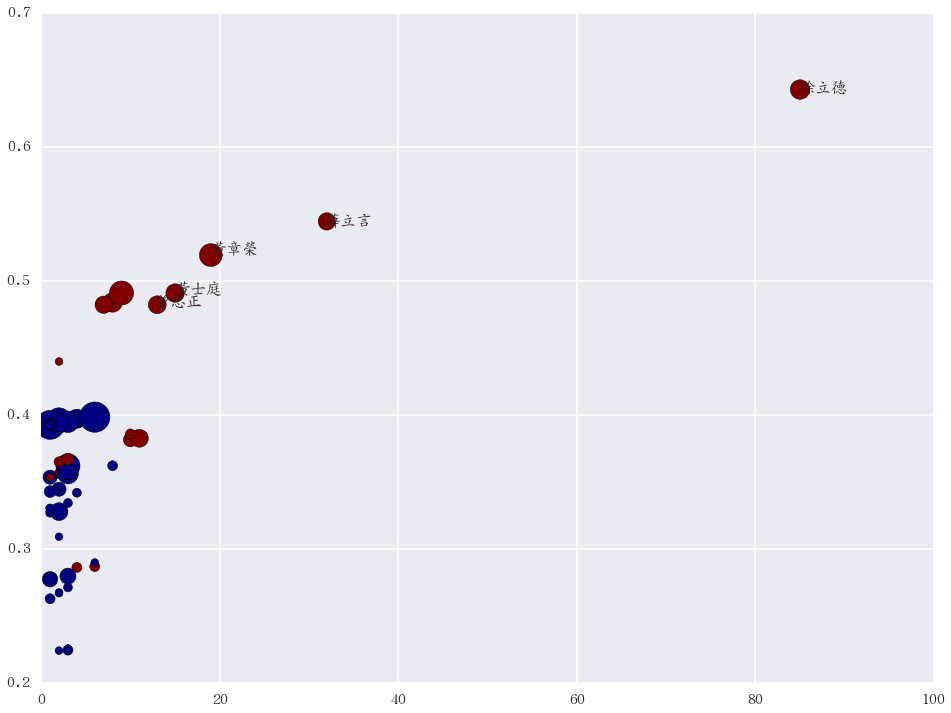
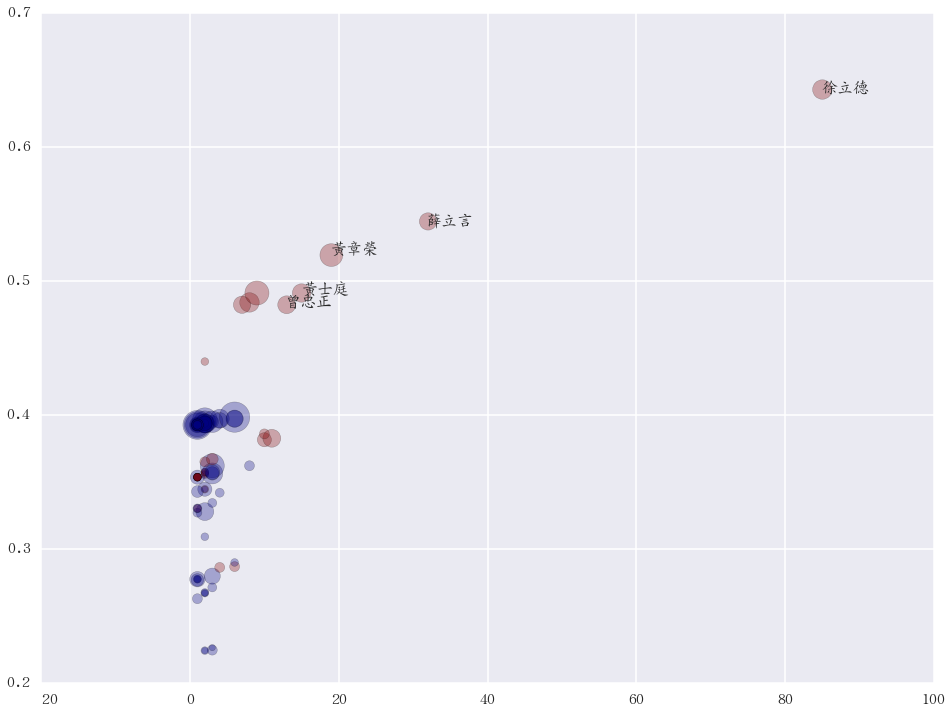
change data month

diff --git a/fixmd.py b/fixmd.py
@@ -103,6 +103,6 @@ def writemd(path, fi):
 
 if __name__ == '__main__':
     path = 'content'
-    fi = 'ronhwa.md'
+    fi = 'kmt.md'
     writemd(path, fi)
 

diff --git a/content/2014-08-09-kmt.md b/content/2014-08-09-kmt.md
@@ -1,5 +1,6 @@
 title: 黨營事業知多少
 date: 2014-08-09 01:35
+modified: 2014-08-11 16:30
 comments: true
 slug: kmtnew
 tags: 台灣公司關係圖
@@ -8,7 +9,7 @@ category: 台灣公司關係圖
 
 ## 黨營事業知多少？
 
-本文將就國民黨營事業的社會網路結構進行深入探討，資料來源為 [台灣公司關係圖](http://gcis.nat.g0v.tw/) 7 月份資料。
+本文將就國民黨營事業的社會網路結構進行深入探討，資料來源為 [台灣公司關係圖](http://gcis.nat.g0v.tw/) 6 月份資料。
 
 前篇文章提到台灣企業生態圈中的超巨大關係企業集團，其中黨營事業處於該集團核心位置，而黨營事業又主要以中央投資為核心向外延伸。關於國民黨黨產多寡，其實我們亦可從年
 報得知，不一定要如此費心挖掘。但本篇研究重心在於表現黨營事業的投資分佈概況，其核心人物主要以誰為主？有哪些財團企業與黨營事業往來密切？甚至藉由比較核心人物擔任董
@@ -27,8 +28,8 @@ category: 台灣公司關係圖
 ![png]({filename}/images/kmt_files/kmt_7_1.png)
 
 
-在本圖中，青色點代表具絕對控制權之企業，橙色點為關係企業，而紫色點為其他共同投資者。<br>
-在連結的圖中，綠色點代表具絕對控制權之企業，橘色點為關係企業，而藍色點為其他共同投資者，越粗的線代表席次比重越高。
+在本圖中，藍色點代表具絕對控制權之企業，暗紅色點為關係企業，而紫色點為其他共同投資者。<br>
+在連結的圖中，綠色點代表具絕對控制權之企業，橙色點為關係企業，而藍色點為其他共同投資者，越粗的線代表席次比重越高。
 
 整體而言，與中央投資有關的事業高達 119 家公司，投資標的橫跨金融、科技、建設與民生消費等行業，甚至包含了台灣證交所。
 
@@ -84,7 +85,7 @@ centrality)，越右上角表示重要性越高。各圓圈大小代表頭銜多
 就核心成員而言，這些人除了出任中央投資相關投資事業的董監事代表之外，是否也有擔任其他事業的董監事代表呢？在初步排除同名同姓的可能後，我們可試列表如下：
 
 
-<table><tr><td>公司名稱</td><td>出現次數</td><td>成員名單</td></tr><tr><td>欣裕台股份有限公司</td><td>9</td><td>施汎泉,施明豪,郭土木,黃士庭,葉裕祥,薛立言,曾忠正,林千惠,黃章榮</td></tr><tr><td>光華投資股份有限公司</td><td>6</td><td>鄭世芳,黃士庭,薛立言,曾忠正,林千惠,黃章榮</td></tr><tr><td>裕晟投資股份有限公司</td><td>4</td><td>黃章榮,鄭世芳,薛立言,曾忠正</td></tr><tr><td>龍天投資股份有限公司</td><td>3</td><td>莊松旺,胡鴻仁,黃雄</td></tr><tr><td>中國廣播股份有限公司</td><td>3</td><td>黃士庭,鄭世芳,曾忠正</td></tr><tr><td>廣播人股份有限公司</td><td>2</td><td>鄭世芳,曾忠正</td></tr><tr><td>亞太電信股份有限公司</td><td>2</td><td>薛立言,曾忠正</td></tr><tr><td>中華旅行社股份有限公司</td><td>1</td><td>黃雄</td></tr><tr><td>大通建築經理股份有限公司</td><td>1</td><td>呂理卿</td></tr><tr><td>中央文物供應社股份有限公司</td><td>1</td><td>陳國平</td></tr><tr><td>國際創業投資股份有限公司</td><td>1</td><td>鄭世芳</td></tr><tr><td>文炳印刷科技股份有限公司</td><td>1</td><td>楊忠耕</td></tr><tr><td>悅悅股份有限公司</td><td>1</td><td>黃士庭</td></tr><tr><td>勤生投資股份有限公司</td><td>1</td><td>徐立德</td></tr><tr><td>灃水營造工程股份有限公司</td><td>1</td><td>陳國平</td></tr><tr><td>國際第三創業投資股份有限公司</td><td>1</td><td>陳國平</td></tr><tr><td>世界生技創業投資股份有限公司</td><td>1</td><td>林千惠</td></tr><tr><td>皇冠實業股份有限公司</td><td>1</td><td>徐立德</td></tr><tr><td>彙亞工程設計股份有限公司</td><td>1</td><td>郭振邦</td></tr></table>
+<table><tr><td>公司名稱</td><td>出現次數</td><td>成員名單</td><td>絕對控制權</td><td>席次</td><td>控制權百分比</td></tr><tr><td>欣裕台股份有限公司</td><td>9</td><td>施汎泉,施明豪,郭土木,黃士庭,葉裕祥,薛立言,曾忠正,林千惠,黃章榮</td><td>True</td><td>6</td><td>100.0</td></tr><tr><td>光華投資股份有限公司</td><td>6</td><td>鄭世芳,黃士庭,薛立言,曾忠正,林千惠,黃章榮</td><td>True</td><td>5</td><td>100.0</td></tr><tr><td>裕晟投資股份有限公司</td><td>4</td><td>黃章榮,鄭世芳,薛立言,曾忠正</td><td>True</td><td>4</td><td>100.0</td></tr><tr><td>中國廣播股份有限公司</td><td>3</td><td>黃士庭,鄭世芳,曾忠正</td><td>False</td><td>3</td><td>27.27</td></tr><tr><td>廣播人股份有限公司</td><td>2</td><td>鄭世芳,曾忠正</td><td>False</td><td>0</td><td>0.0</td></tr><tr><td>亞太電信股份有限公司</td><td>2</td><td>薛立言,曾忠正</td><td>False</td><td>3</td><td>16.67</td></tr><tr><td>文炳印刷科技股份有限公司</td><td>1</td><td>楊忠耕</td><td>True</td><td>1</td><td>100.0</td></tr><tr><td>大通建築經理股份有限公司</td><td>1</td><td>呂理卿</td><td>True</td><td>1</td><td>100.0</td></tr><tr><td>中央文物供應社股份有限公司</td><td>1</td><td>陳國平</td><td>True</td><td>1</td><td>100.0</td></tr><tr><td>國際創業投資股份有限公司</td><td>1</td><td>鄭世芳</td><td>False</td><td>1</td><td>33.33</td></tr><tr><td>勤生投資股份有限公司</td><td>1</td><td>徐立德</td><td>True</td><td>2</td><td>50.0</td></tr><tr><td>悅悅股份有限公司</td><td>1</td><td>黃士庭</td><td>False</td><td>0</td><td>0.0</td></tr><tr><td>皇冠實業股份有限公司</td><td>1</td><td>徐立德</td><td>False</td><td>1</td><td>12.5</td></tr><tr><td>灃水營造工程股份有限公司</td><td>1</td><td>陳國平</td><td>True</td><td>1</td><td>100.0</td></tr><tr><td>國際第三創業投資股份有限公司</td><td>1</td><td>陳國平</td><td>True</td><td>1</td><td>50.0</td></tr><tr><td>世界生技創業投資股份有限公司</td><td>1</td><td>林千惠</td><td>False</td><td>1</td><td>25.0</td></tr><tr><td>龍天投資股份有限公司</td><td>1</td><td>胡鴻仁</td><td>True</td><td>2</td><td>50.0</td></tr></table>
 
 
 以上的公司名單依出現次數多寡排列，我們可以找出非屬中央投資的投資範圍，但是由同一群人經營之企業。自然這些企業亦享有與中央投資同等的資訊優勢，其出現次數越多表示與
@@ -104,14 +105,20 @@ centrality)，越右上角表示重要性越高。各圓圈大小代表頭銜多
 我們可以看到除了中央投資外，同一群人也另外持有欣裕台（完全持有）、光華投資（完全持有）、裕晟投資（完全持有）甚至是亞太電信（部份持有）。利用網絡分析圖可以幫助我
 們更容易觀察到這些公司彼此的轉投資關係。
 
+最後根據連接數與近距中間值，我們可以觀察比較中央投資集團相關企業的重要性，如下圖即顯示出除了中央投資居於重要地位之外，環宇投資與歐華創投等也佔據了相當重要的位置
+。
+
+
+![png]({filename}/images/kmt_files/kmt_23_0.png)
+
+
 ### 結語
 
 本文試圖探討黨營事業的結構，找出中央投資的關係企業與核心企業。利用核心企業的董監事名單，可以找出黨營事業的核心人物與友好企業夥伴。另外甚至可以依此找出不屬於中央
 投資的投資範圍內的企業名單。協助我們更清楚整體黨營事業成員。類似方法也可用於觀察以家族為核心的財團成員。黨營事業形成自有其歷史背景，但時至今日其規模仍與財團相當
 ，其與財團互為利益共同體這點，絕非一朝一夕便可消除。
 
-所以單方面地相信政府或政黨會為人民服務是不夠的，政府官員、政黨代表也是人，也會面臨利益糾葛、天人交戰的時候。我們需要更透明的政治與經濟環境，透過全民共同監督，以
-降低黑箱政治、政府與財團利益交換的可能性。
+因此我們需要持續監督黨營事業發展與影響，創造更透明的政治與經濟環境，透過全民共同監督以降低黑箱政治、政府與財團利益交換的可能性。
 
 
 ### 參考文獻

diff --git a/content/2014-08-09-ronhwa.md b/content/2014-08-09-ronhwa.md
@@ -1,12 +1,13 @@
 title: 集團研究--榮化
 date: 2014-08-09 01:55
+modified: 2014-08-11 16:30
 comments: true
 slug: ronhwa
 tags: 台灣公司關係圖
 category: 台灣公司關係圖
 
 
-本文將就李長榮化工的董監事社會網路結構進行探討，資料來源為 [台灣公司關係圖](http://gcis.nat.g0v.tw/) 7 月份資料。
+本文將就李長榮化工的董監事社會網路結構進行探討，資料來源為 [台灣公司關係圖](http://gcis.nat.g0v.tw/) 6 月份資料。
 
 首先想知道有哪些公司名稱與"李長榮"有關？
 
@@ -33,8 +34,8 @@ category: 台灣公司關係圖
 
 在本文中，若集團核心成員以個人或法人身份持有被投資公司五成以上的董監席次，則我們稱集團對該被投資公司具有絕對控制權。
 
-在本圖中，福聚與惠利實業等四間公司為榮化之法人股東，藍色點代表具絕對控制權之企業，橙色點為關係企業，而紫色點為其他共同投資者。<br>
-在連結的圖中，紅色點為榮化之法人股東，藍色點代表具絕對控制權之企業，綠色點為關係企業，而橘色點為其他共同投資者，越粗的線代表席次比重越高。
+在本圖中，福聚與惠利實業等四間公司為榮化之法人股東，藍色點代表具絕對控制權之企業，暗紅色點為關係企業，而紫色點為其他共同投資者。<br>
+在連結的圖中，紅色點為榮化之法人股東，藍色點代表具絕對控制權之企業，橙色點為關係企業，而綠色點為其他共同投資者，越粗的線代表席次比重越高。
 
 整體而言，與李長榮化工有關的事業有 13 家公司。<br>
 榮化除了董事長李謀偉以個人身份擔任董事長外，其餘董監事成員主要以福聚與惠利實業這兩間僑外資公司為主，而這兩間公司又分別為註冊在英屬維京群島的公司所持有。透過免稅
@@ -46,7 +47,7 @@ category: 台灣公司關係圖
 <table><tr><td>被投資對象</td><td>董監席次</td><td>持有席次</td><td>持有比重</td></tr><tr><td>惠利投資股份有限公司</td><td>4</td><td>4</td><td>100.0</td></tr><tr><td>環球橡膠股份有限公司</td><td>4</td><td>4</td><td>100.0</td></tr><tr><td>新能生物科技股份有限公司</td><td>8</td><td>4</td><td>50.0</td></tr><tr><td>李長榮科技股份有限公司</td><td>7</td><td>7</td><td>100.0</td></tr></table>
 
 
-其中新能生物科技雖有絕對控制權，但有部份董監事成員非屬榮化集團，這點須在分析核心成員名單時加以區別：
+其中新能生物科技雖有絕對控制權，但有部份董監事成員非屬榮化集團，這點須在分析核心成員名單時加以區別。
 
 ### 核心人物與投資夥伴
 
@@ -86,7 +87,7 @@ category: 台灣公司關係圖
 就本集團的核心董監事代表而言，這些人是否也有擔任其他事業的董監事代表呢？在初步排除同名同姓的可能後，我們可試以現有模型檢查：
 
 
-<table><tr><td>公司名稱</td><td>出現次數</td><td>成員名單</td></tr><tr><td>李長榮實業股份有限公司</td><td>6</td><td>李明恭,李陳蘭,楊賽芬,洪再興,王焜燦,李謀偉</td></tr><tr><td>李城企業股份有限公司</td><td>5</td><td>魏正誠,王焜燦,李謀偉,李陳蘭,楊賽芬</td></tr><tr><td>紘洋化學股份有限公司</td><td>4</td><td>王興益,盧俊雄,李陳蘭,李振芳</td></tr><tr><td>全利能源實業股份有限公司</td><td>4</td><td>魏正誠,李謀偉,李陳蘭,楊賽芬</td></tr><tr><td>全利台船務代理有限公司</td><td>2</td><td>李謀偉,李陳蘭</td></tr><tr><td>納亞股份有限公司</td><td>2</td><td>李謀偉,楊賽芬</td></tr><tr><td>惠利船務代理有限公司</td><td>1</td><td>李陳蘭</td></tr><tr><td>奎克生技光電股份有限公司</td><td>1</td><td>李謀偉</td></tr></table>
+<table><tr><td>公司名稱</td><td>出現次數</td><td>成員名單</td><td>絕對控制權</td><td>席次</td><td>控制權百分比</td></tr><tr><td>李長榮實業股份有限公司</td><td>6</td><td>李明恭,李陳蘭,楊賽芬,洪再興,王焜燦,李謀偉</td><td>True</td><td>4</td><td>100.0</td></tr><tr><td>李城企業股份有限公司</td><td>5</td><td>魏正誠,王焜燦,李謀偉,李陳蘭,楊賽芬</td><td>True</td><td>4</td><td>100.0</td></tr><tr><td>紘洋化學股份有限公司</td><td>4</td><td>王興益,盧俊雄,李陳蘭,李振芳</td><td>True</td><td>4</td><td>100.0</td></tr><tr><td>全利能源實業股份有限公司</td><td>4</td><td>魏正誠,李謀偉,李陳蘭,楊賽芬</td><td>True</td><td>4</td><td>100.0</td></tr><tr><td>全利台船務代理有限公司</td><td>2</td><td>李謀偉,李陳蘭</td><td>True</td><td>2</td><td>66.67</td></tr><tr><td>納亞股份有限公司</td><td>2</td><td>李謀偉,楊賽芬</td><td>True</td><td>2</td><td>50.0</td></tr><tr><td>惠利船務代理有限公司</td><td>1</td><td>李陳蘭</td><td>True</td><td>1</td><td>100.0</td></tr><tr><td>奎克生技光電股份有限公司</td><td>1</td><td>李謀偉</td><td>False</td><td>1</td><td>25.0</td></tr></table>
 
 
 就現有模型與資料推斷，核心成員仍持有李長榮實業等八家事業。關於其與榮化間的關係，合併後以社會網絡分析圖表示如下：
@@ -98,14 +99,21 @@ category: 台灣公司關係圖
 ![png]({filename}/images/ronhwa_files/ronhwa_23_1.png)
 
 
-在上圖中暗紅色為模型新發現之投資企業，其中有四間公司仍與榮化存在相關的投資關係。另外四間則無，但從董監事成員來看，他們仍然是同一群人所經營的事業。
+在上圖中暗紅色為模型新發現榮化具有控制權之企業，其餘新發現但無控制權之企業仍以橙色表示。其中有四間公司仍與榮化存在相關的投資關係。另外四間則無，但從董監事成員來
+看，他們仍然是同一群人經營的事業。若是從連接數與近距中間值來觀察榮化集團中各企業的重要性，仍然以榮化的重要性最高。
+
+下圖以各公司的董監事人數代表圓圈大小。
+
+
+![png]({filename}/images/ronhwa_files/ronhwa_25_0.png)
+
 
 ### 結語
 
-本文試圖討論榮化集團的轉投資事業與其核心成員，發現榮化其實是大股東們透過海外註冊公司持有。另外我們也藉由法人投資關係查出來幾間與榮化有共同投資關係的友好企業。
+本文試圖討論榮化集團的轉投資事業與其核心成員，發現榮化其實是大股東們透過海外註冊公司持有。另外我們也藉由法人投資關係找出來幾間與榮化有共同投資關係的友好企業。
 
 最後在檢查大股東的其他轉投資事業時，發現八間轉投資事業，其中有四間公司仍與榮化存在間接投資關係。
-可惜的是，因現有資料有限，對於大股東的其餘海外投資事業並不在筆者的掌握範圍之內，但現有資料仍具有可觀之處，可合併其他資料作為參考。
+這些事業雖然不一定與榮化有投資關係，但廣義上仍可將之歸類為榮化集團的一份子。
 
 
 <a rel="license" href="http://creativecommons.org/licenses/by-sa/4.0/"><img

diff --git a/content/2014-08-06-TWcompany.md b/content/2014-08-06-TWcompany.md
@@ -13,7 +13,7 @@ category: 台灣公司關係圖
 可以更清楚政府、財團甚至黨營事業組成一個大群體。這群體的成員組成有誰？他們的規模究竟有多大？該如何界定他們的影響力？這些都將在下文逐一分析討論。
 
 
-本研究資料來源為 <a href="http://gcis.nat.g0v.tw/">台灣公司關係圖 http://gcis.nat.g0v.tw/</a> 7 月份資料，整體樣本數為 1,447,188 家公司。由於資料來源並不含時間序列的變數，無法觀察不同時點的公司存活家數變化，故僅考慮營運中的企業。台灣整體營運中的企業數 (不含分公司) 約 619,154 家。其中有董監事名單或被列入董監事名單的公司約有 42,043 家，這些約佔整體營運中的企業 6.79% 左右。我們想了解的，就是這些公司為台灣形塑出來的企業生態圈概貌。
+本研究資料來源為 <a href="http://gcis.nat.g0v.tw/">台灣公司關係圖 http://gcis.nat.g0v.tw/</a> 6 月份資料，整體樣本數為 1,447,188 家公司。由於資料來源並不含時間序列的變數，無法觀察不同時點的公司存活家數變化，故僅考慮營運中的企業。台灣整體營運中的企業數 (不含分公司) 約 619,154 家。其中有董監事名單或被列入董監事名單的公司約有 42,043 家，這些約佔整體營運中的企業 6.79% 左右。我們想了解的，就是這些公司為台灣形塑出來的企業生態圈概貌。
 
 
 本報告將依以下順序進行探討：
